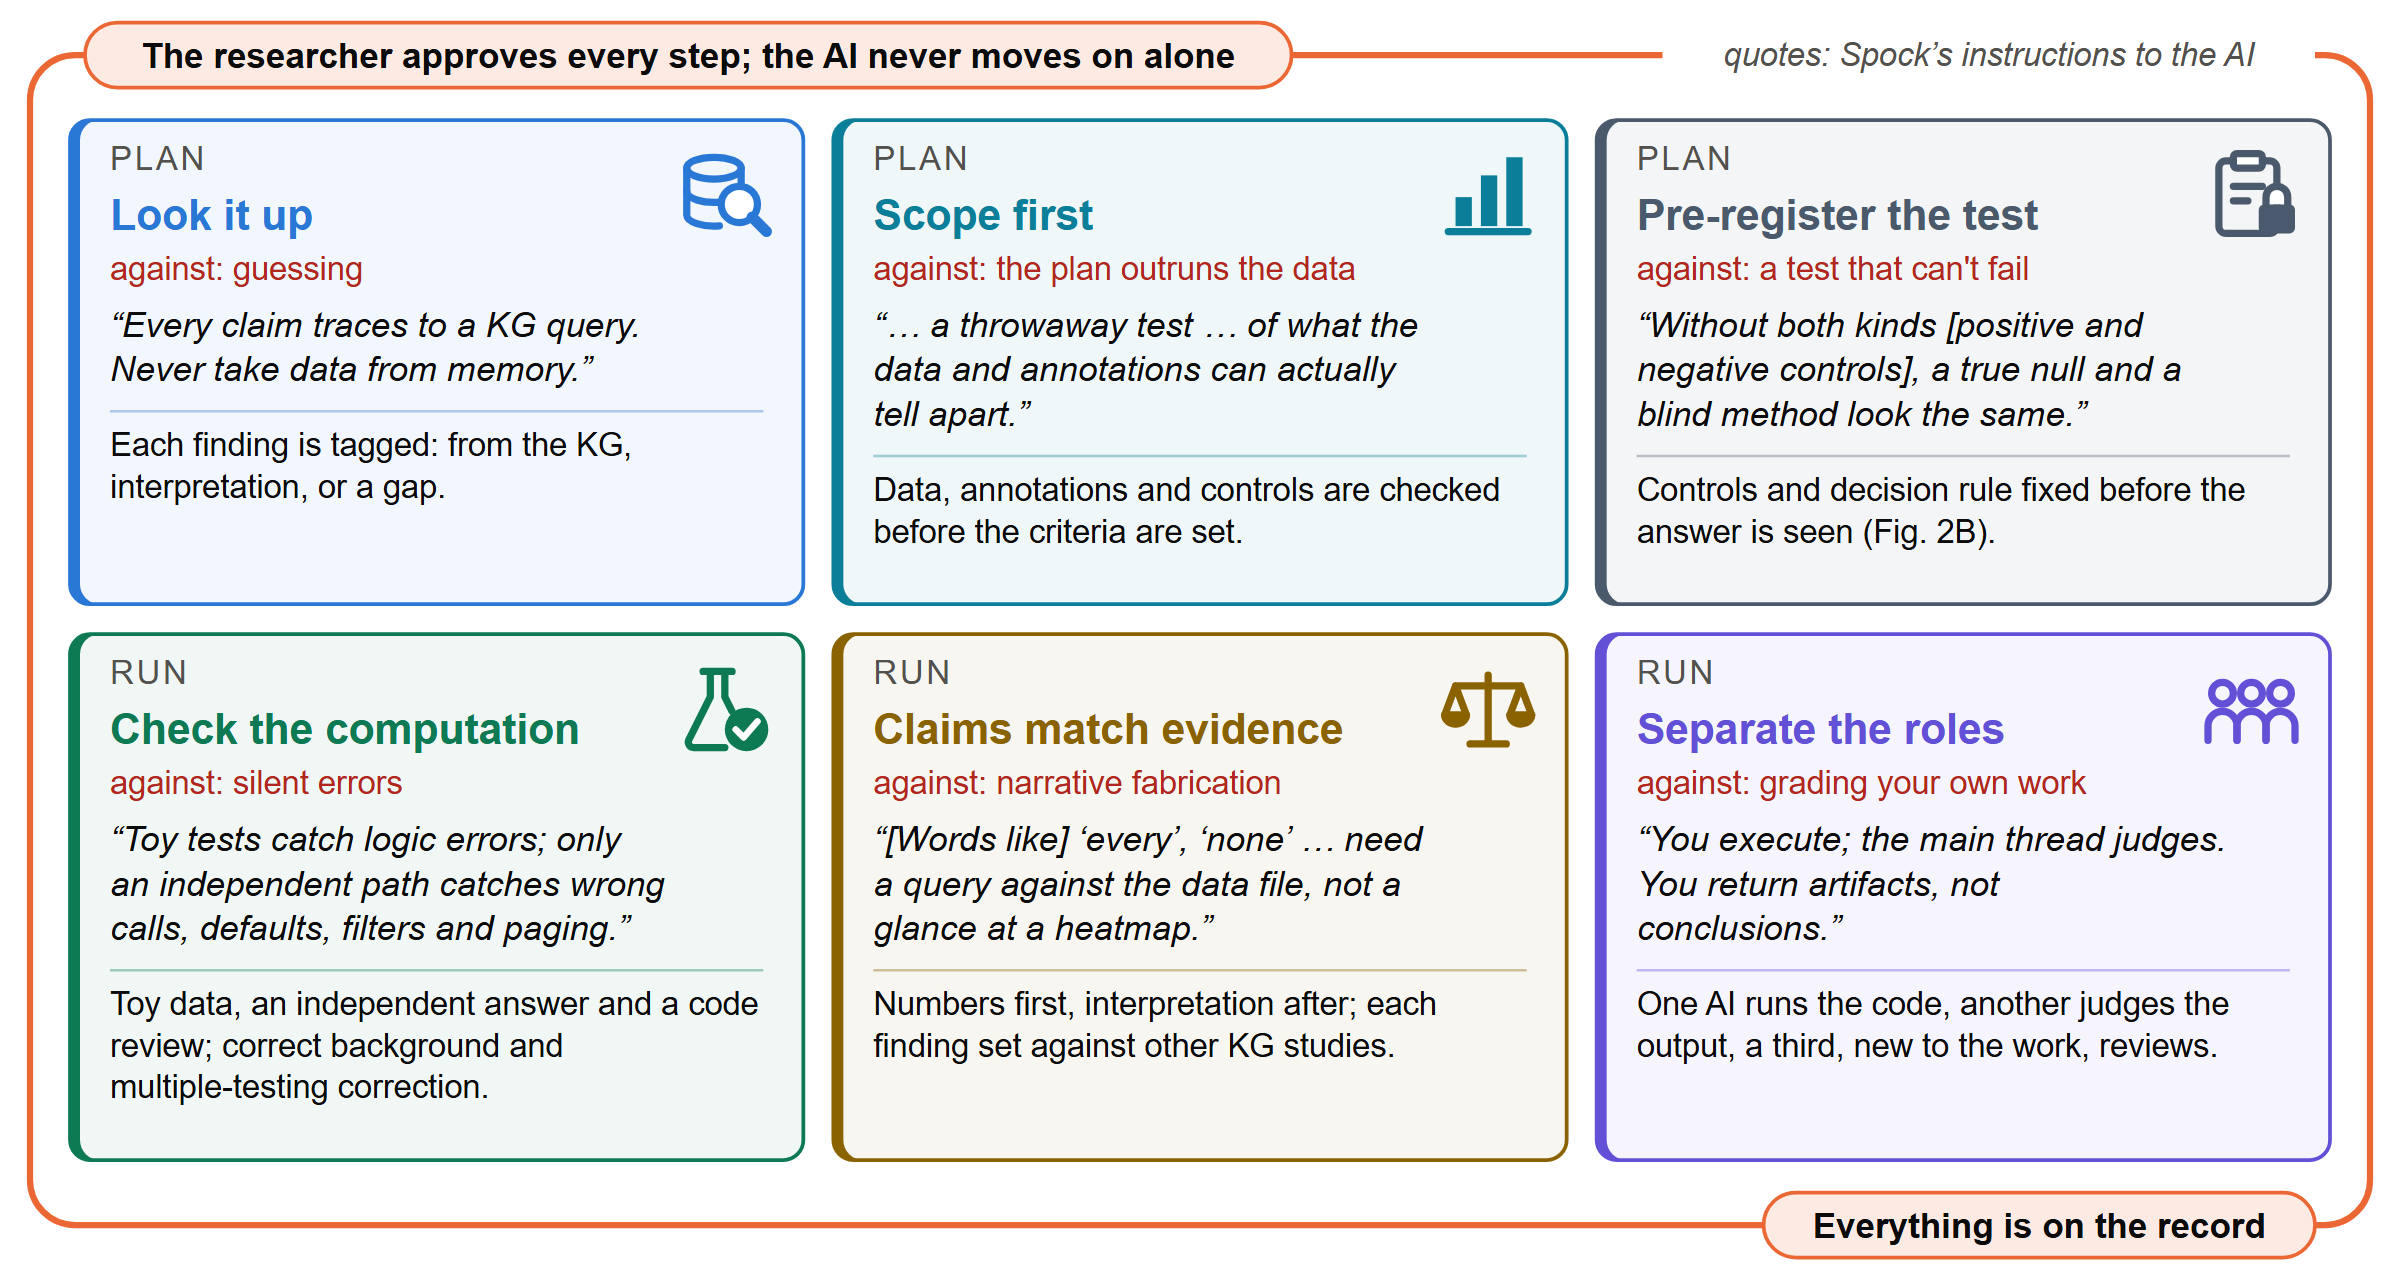
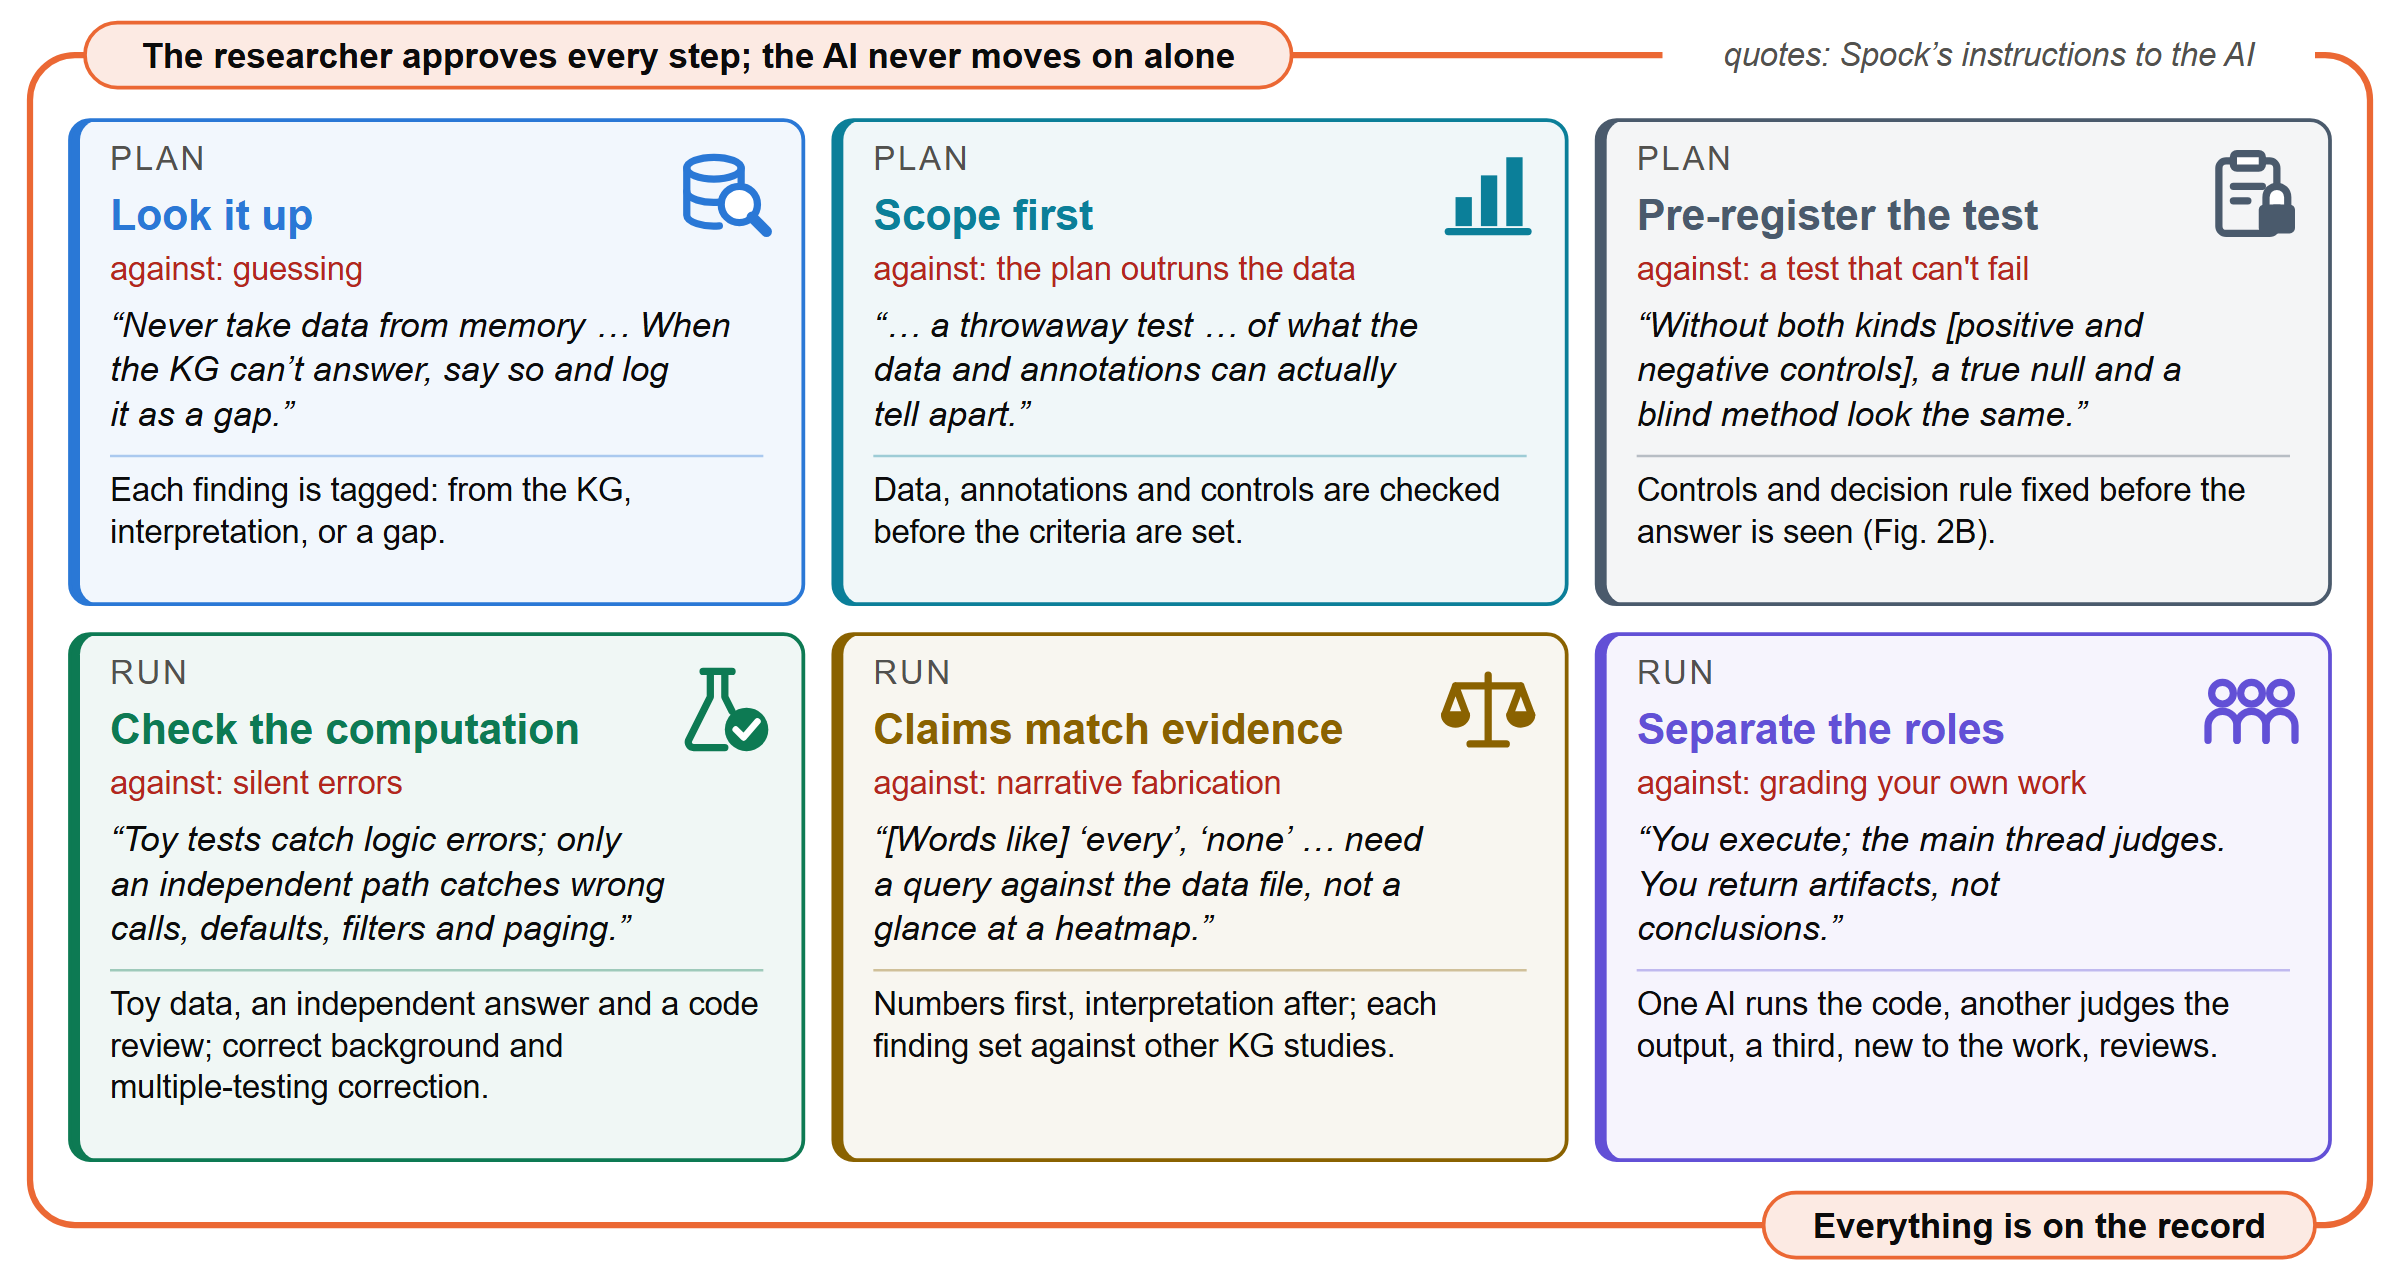
Paper graphics: Fig 1 Look it up quote extended to three lines
Verbatim from Rule 1 of the research-methodology skill, now including "say so
and log it as a gap", so all six card quotes run three lines.

Changed region(s): [[0.0312, 0.25, 0.3125, 0.4375]]

diff --git a/docs/paper graphics/make_figures.py b/docs/paper graphics/make_figures.py
@@ -252,7 +252,8 @@ ICONS_1B = ["database", "lock", "scales", "magnifier", "bars", "code"]
 CARDS = [
     dict(stage="Plan", title="Look it up", danger="guessing",
          gloss="facts recalled, not looked up",
-         quote="Every claim traces to a KG query. Never take data from memory.",
+         quote="Never take data from memory … When the KG can’t answer, say so and log it "
+               "as a gap.",
          source="skills/research-methodology/SKILL.md",
          how="Each finding is tagged: from the KG, interpretation, or a gap.",
          icon="kg_lookup", color=BLUE),
